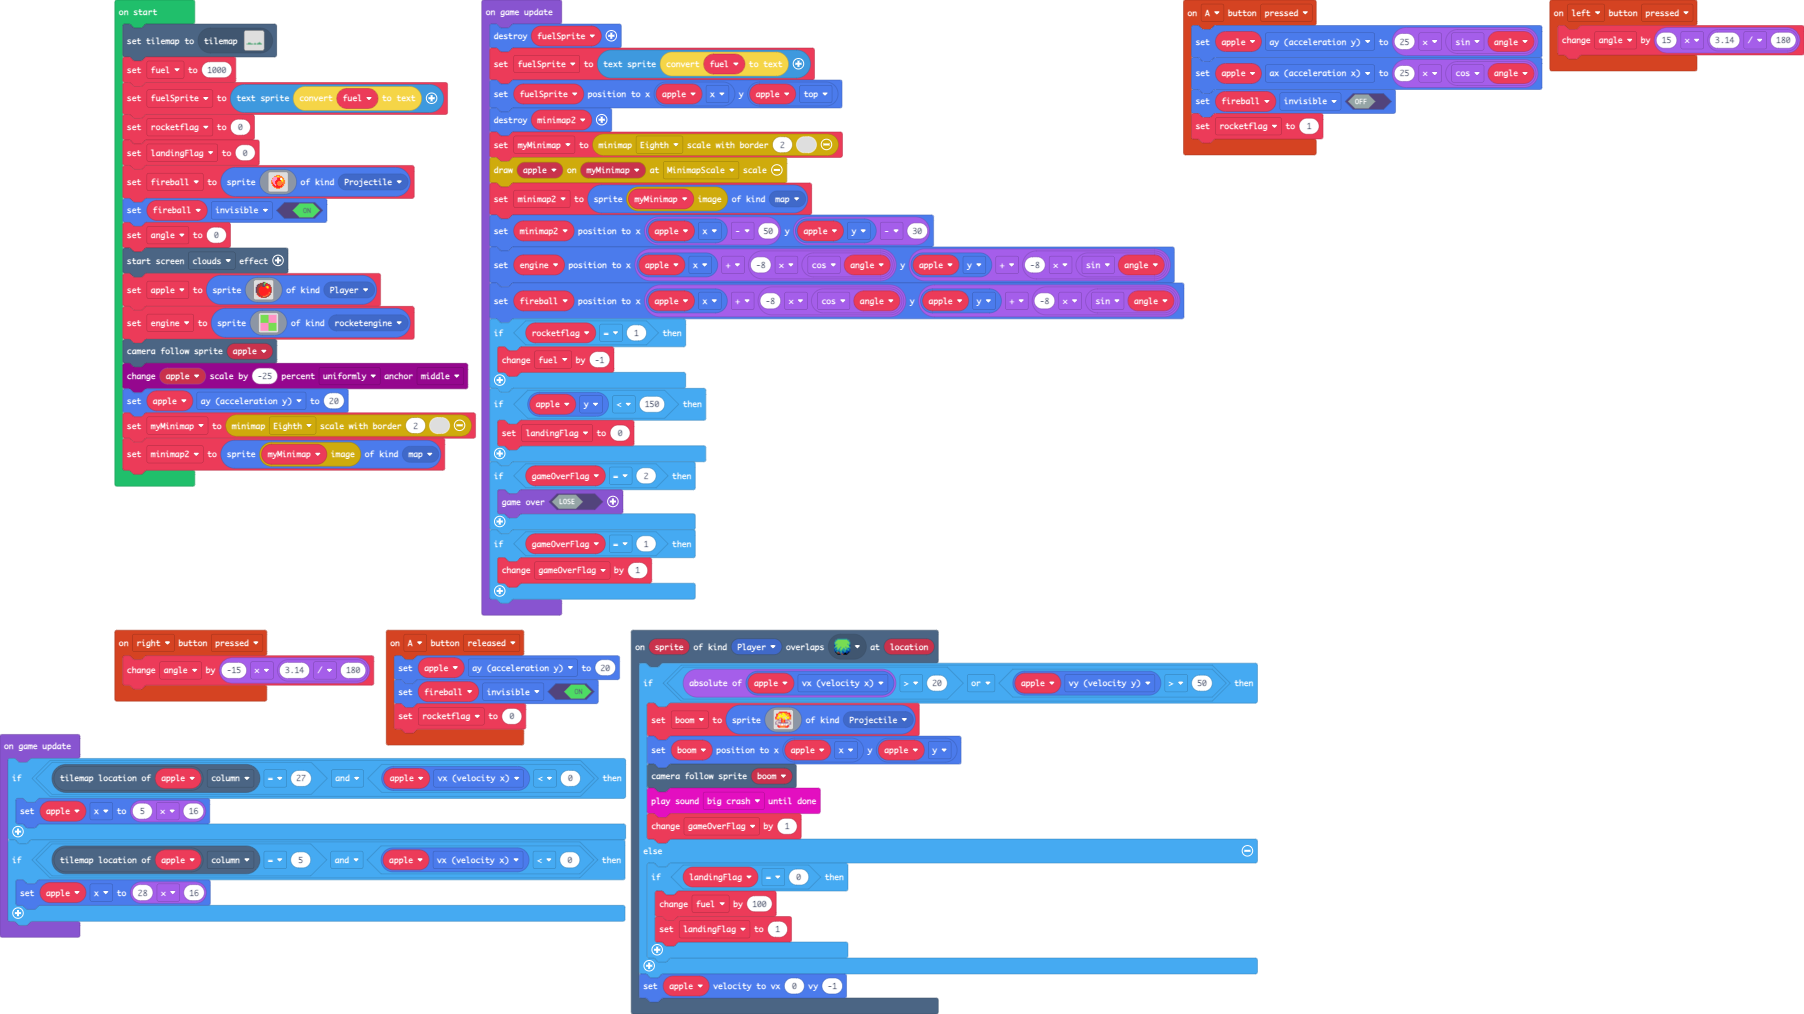
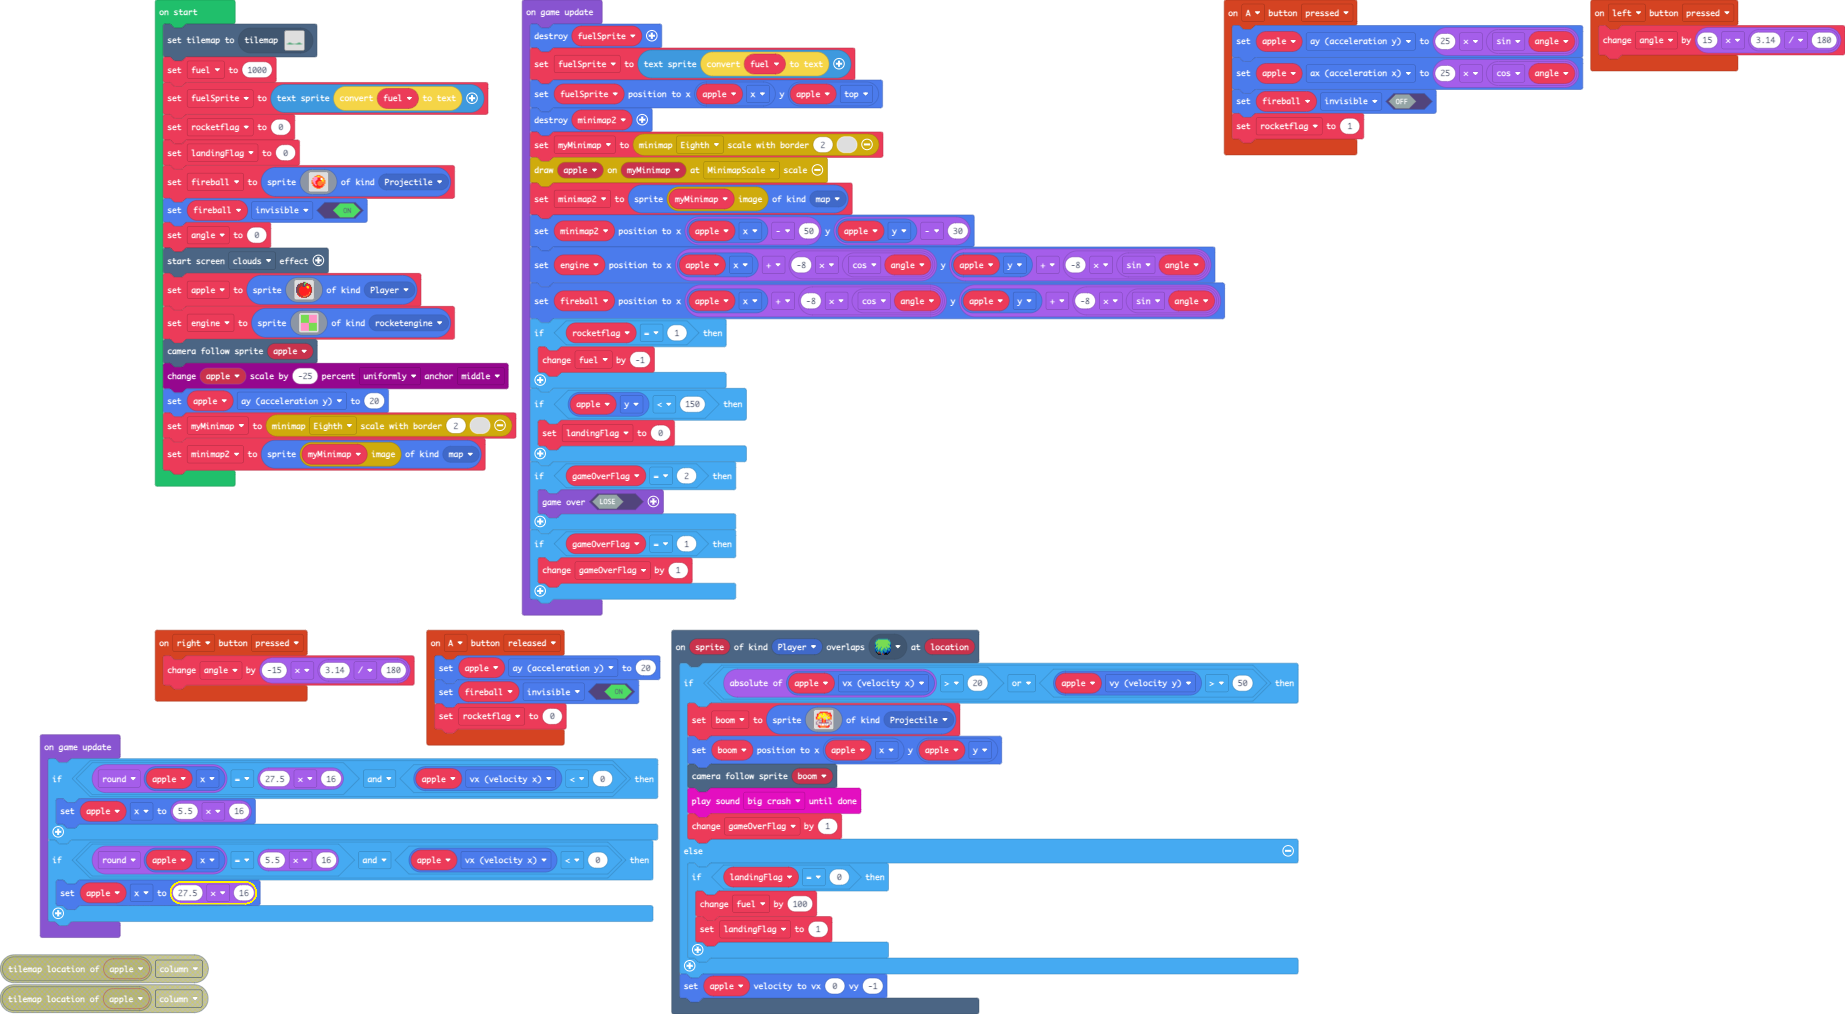
still working on wrapping

diff --git a/main.ts b/main.ts
@@ -136,10 +136,10 @@ game.onUpdate(function () {
     }
 })
 game.onUpdate(function () {
-    if (apple.tilemapLocation().column == 27 && apple.vx < 0) {
-        apple.x = 5 * 16
+    if (Math.round(apple.x) == 27.5 * 16 && apple.vx < 0) {
+        apple.x = 5.5 * 16
     }
-    if (apple.tilemapLocation().column == 5 && apple.vx < 0) {
-        apple.x = 28 * 16
+    if (Math.round(apple.x) == 5.5 * 16 && apple.vx < 0) {
+        apple.x = 27.5 * 16
     }
 })
